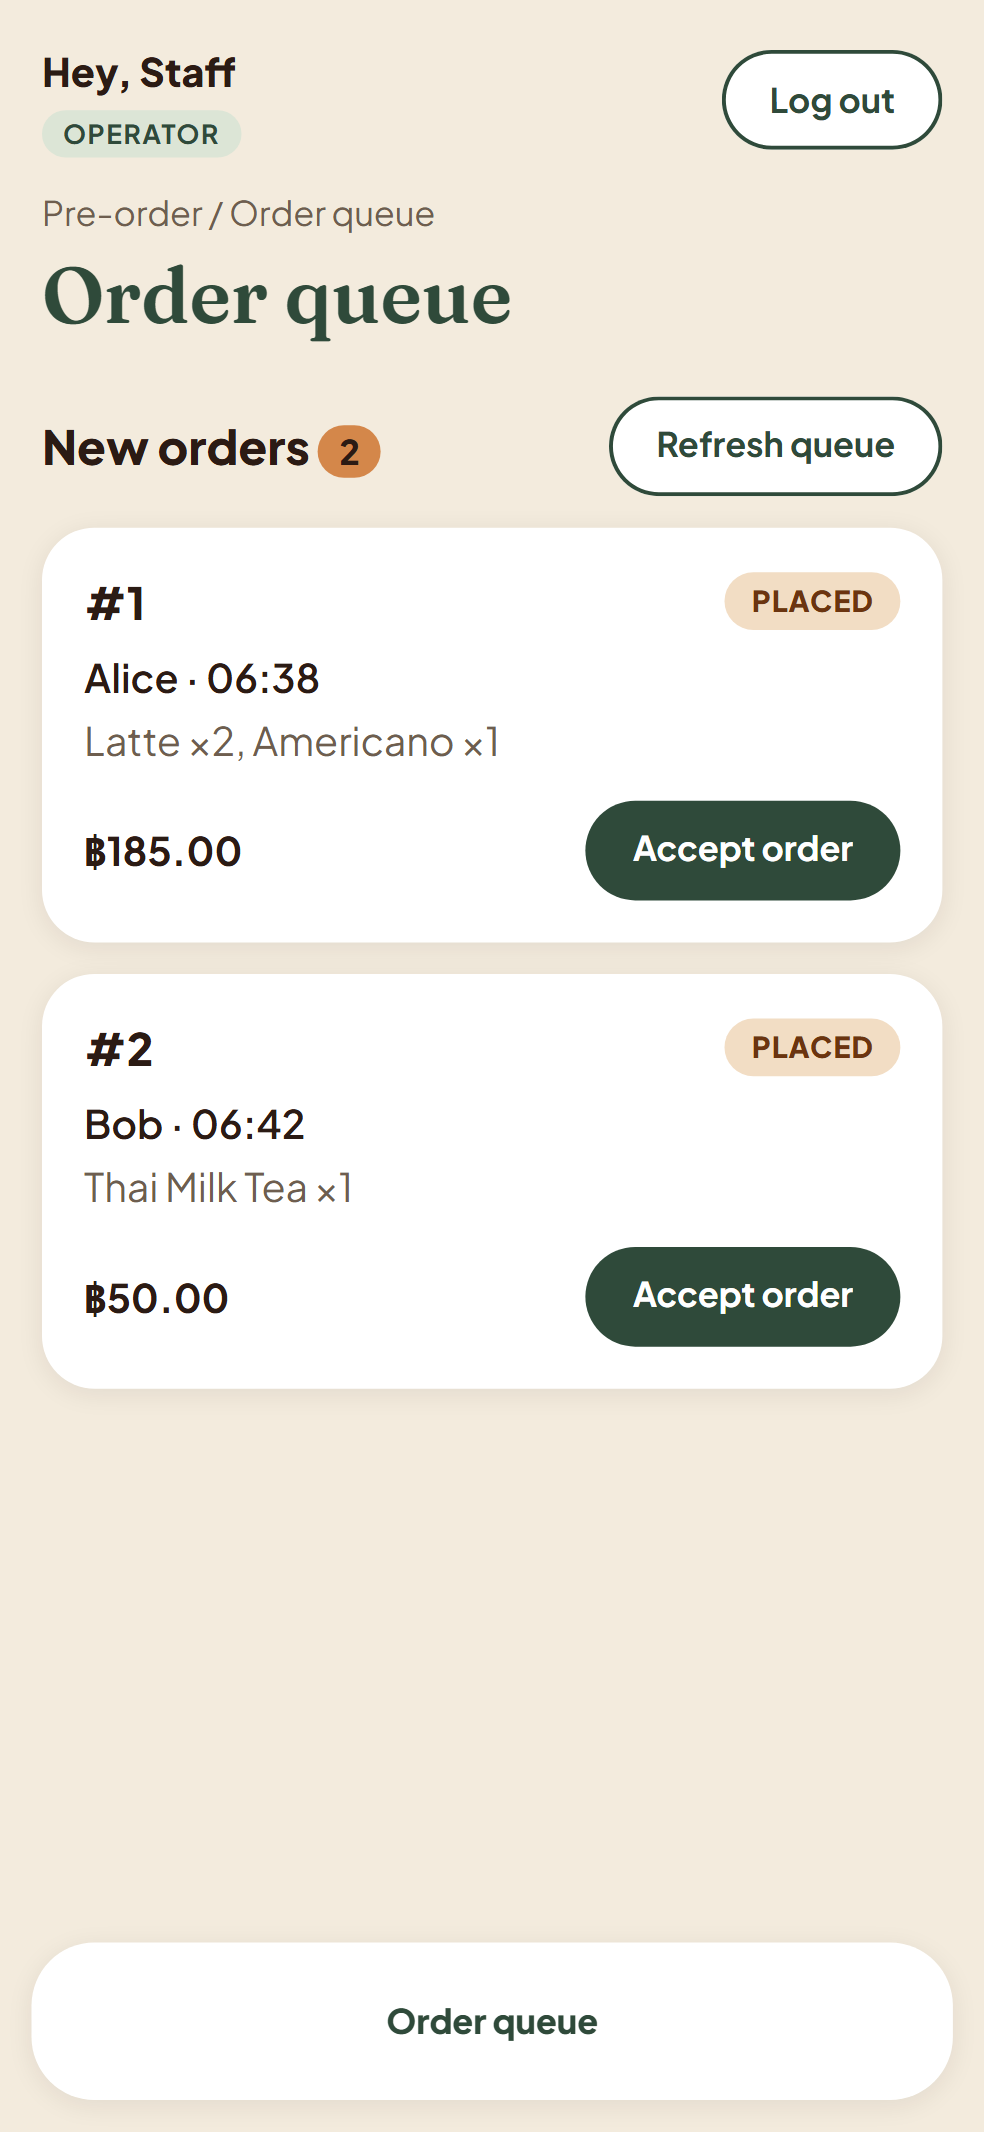
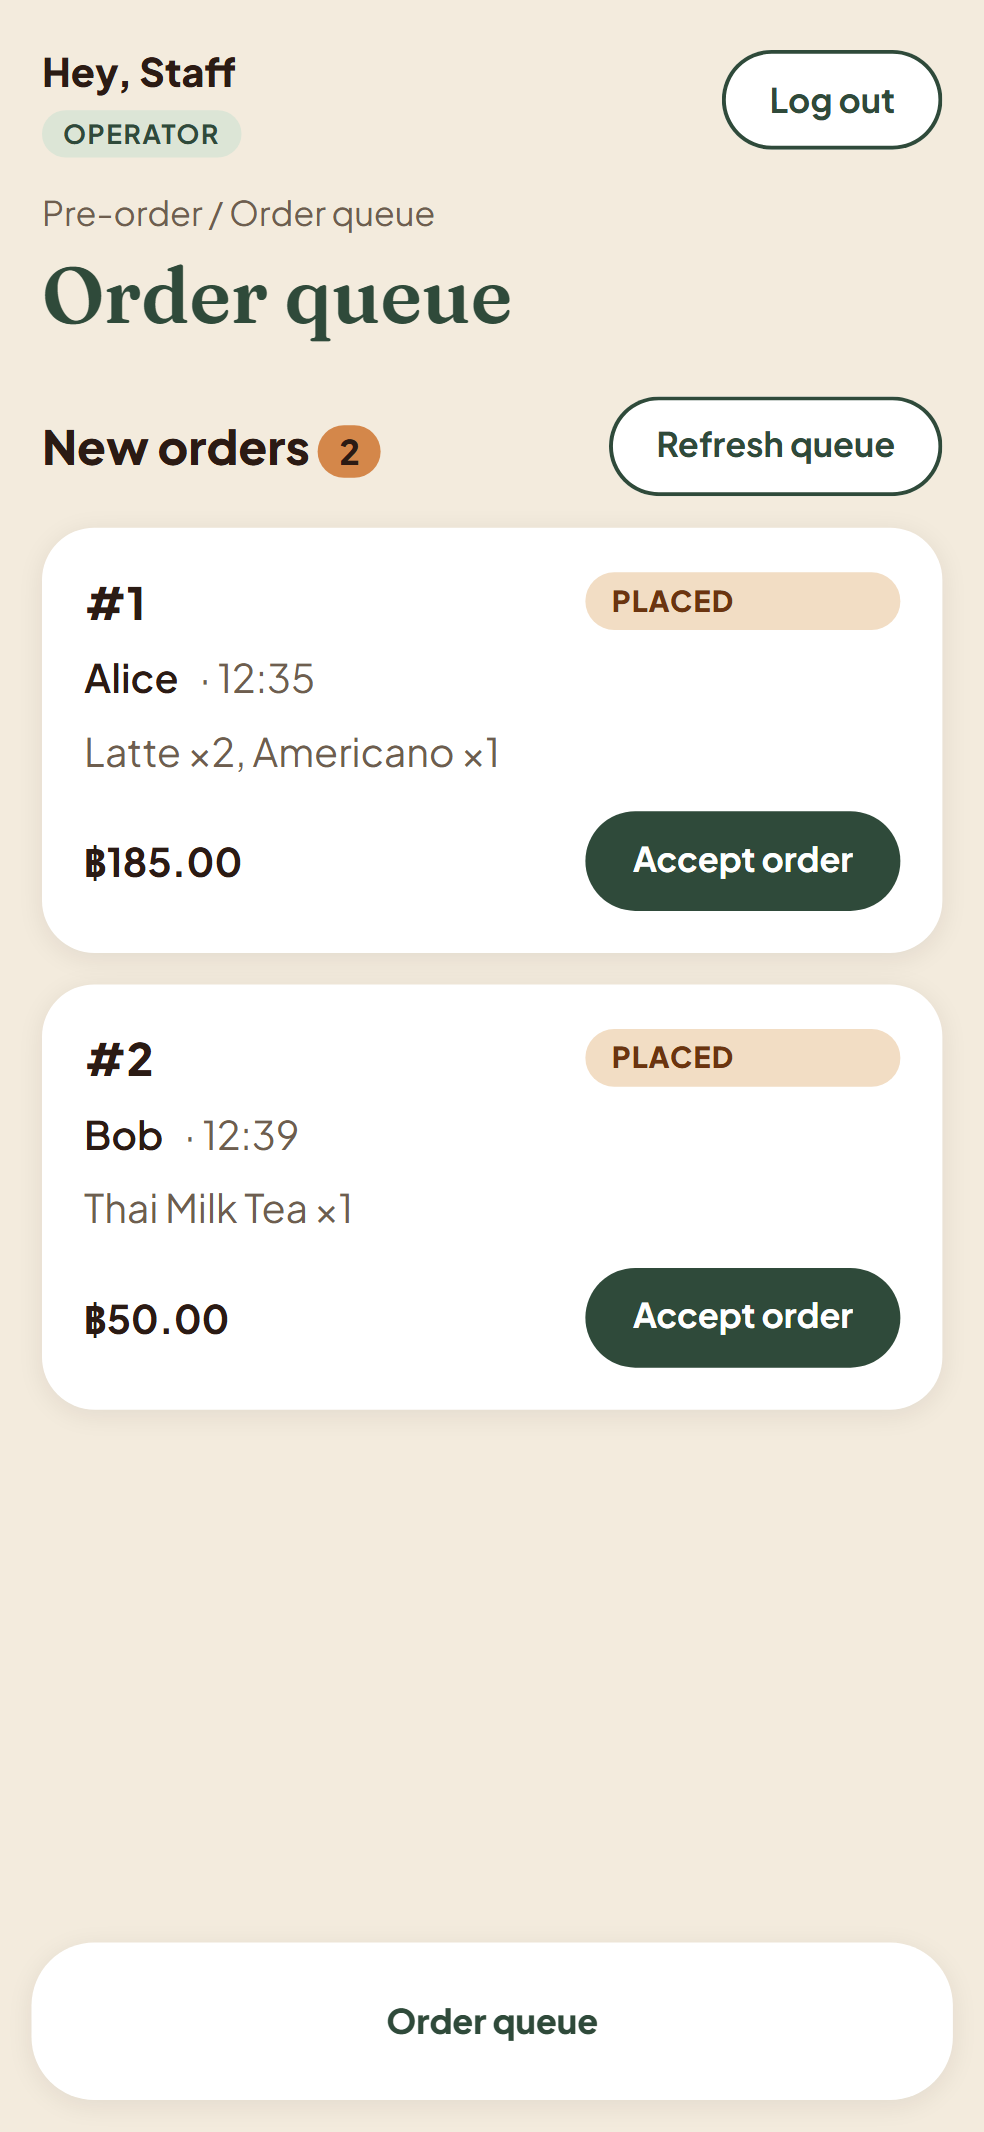
feat(#43): desktop layouts match docs/ui/design (login, orders split, queue table, menu details)

diff --git a/client/src/styles.css b/client/src/styles.css
@@ -182,3 +182,49 @@ button[disabled] { cursor: not-allowed; }
 }
 @media (min-width: 1200px) { .menu-list { grid-template-columns: repeat(3, 1fr); } }
 @media (min-width: 900px) { .phone-only { display: none; } }
+
+/* Desktop layouts from docs/ui/design/Desktop*.html (#43). Phone (< 900 px) keeps the rules above. */
+.section-head { margin: 4px 0 12px; }
+.center-text { text-align: center; }
+.no-signup { font-size: 13px; color: var(--muted); text-align: center; margin: 16px 0 0; }
+.side-sub { margin: 2px 0 0; font-size: 12px; color: var(--caramel); }
+.side-links .count { margin-left: 8px; }
+.queue-headrow, .order-headrow { display: none; }
+/* Queue card on the phone: #id + pill / customer · time / items / total + button. */
+.order-card { display: grid; grid-template-columns: auto 1fr auto; grid-template-areas: "no no pill" "who time time" "items items items" "total total action"; align-items: center; gap: 6px 8px; }
+.q-no { grid-area: no; } .q-pill { grid-area: pill; } .q-who { grid-area: who; font-weight: 600; }
+.q-time { grid-area: time; } .q-time::before { content: "· "; }
+.q-items { grid-area: items; } .q-total { grid-area: total; margin-top: 6px; } .q-action { grid-area: action; margin-top: 6px; }
+.orders-split.has-detail .split-list, .orders-split:not(.has-detail) .split-detail { display: none; }
+
+@media (min-width: 900px) {
+  /* Login: full-screen photo, dark overlay, white card in the centre. */
+  .login { max-width: none; position: relative; align-items: center; justify-content: center; padding: 110px 16px 48px; background: var(--espresso); }
+  .login::before { content: ""; position: absolute; inset: 0; background: rgba(43, 27, 20, 0.62); z-index: 1; }
+  .login-photo { position: absolute; inset: 0; height: 100%; }
+  .hero { position: absolute; top: 36px; left: 48px; right: 48px; z-index: 2; display: flex; justify-content: space-between; align-items: center; background: none; padding: 0; border-radius: 0; }
+  .hero .brand { font-size: 26px; color: var(--caramel); }
+  .hero .brand br, .hero .brand em { display: none; }
+  .hero .tag { margin: 0; font-size: 14px; color: var(--beige); }
+  .login-form { position: relative; z-index: 2; width: 420px; background: #fff; border-radius: 16px; box-shadow: 0 18px 40px rgba(20, 12, 8, 0.35); padding: 0 28px 26px; }
+  .card-head { margin: -28px -10px 18px; padding: 22px 24px; border-radius: 12px; background: var(--forest); color: #fff; text-align: center; box-shadow: 0 8px 18px rgba(47, 74, 58, 0.4); }
+  .card-head .title { font-family: "Fraunces", Georgia, serif; font-weight: 600; font-size: 28px; }
+  .card-head .muted { color: #d9e4d3; }
+  .login-form .input { border: 1px solid #dccfbd; box-shadow: none; height: 48px; border-radius: 12px; }
+  .credit { text-align: center; }
+
+  /* Queue and My orders: rows of one white table card. */
+  .queue, .order-list { grid-template-columns: 1fr; gap: 0; background: #fff; border-radius: 16px; box-shadow: var(--card-shadow); overflow: hidden; }
+  .queue-headrow, .order-card { display: grid; grid-template-columns: 70px 120px 1fr 80px 100px 140px; grid-template-areas: "no who items time total action"; align-items: center; gap: 12px; padding: 12px 18px; border-radius: 0; box-shadow: none; border-bottom: 1px solid #efe6d8; }
+  .queue-headrow, .order-headrow { font-size: 12px; font-weight: 700; color: var(--muted); background: var(--cashmere); }
+  .q-pill { display: none; }
+  .q-time::before { content: none; }
+  .q-total, .q-action { margin-top: 0; }
+  .order-headrow, .order-row { display: grid; grid-template-columns: 70px 1fr 100px 90px; gap: 12px; align-items: center; padding: 12px 18px; }
+  .order-row { border-radius: 0; box-shadow: none; border-bottom: 1px solid #efe6d8; }
+  .order-row[aria-current="true"] { background: #f6efe4; }
+  .order-row .pill { justify-self: start; }
+  .orders-split { display: grid; grid-template-columns: minmax(340px, 1fr) minmax(380px, 1.2fr); gap: 20px; align-items: start; }
+  .orders-split .split-list, .orders-split .split-detail { display: block !important; }
+  .split-detail .back { display: none; }
+}

diff --git a/client/src/pages/QueuePage.tsx b/client/src/pages/QueuePage.tsx
@@ -109,23 +109,27 @@ export function QueuePage() {
           <p className="muted">New orders appear here when you refresh.</p>
         </div>
       ) : (
+        // Phone: one card per order. Desktop: the same items laid out as table rows (styles.css).
         <ul className="queue">
+          <li className="queue-headrow" aria-hidden="true">
+            <span>Order</span>
+            <span>Customer</span>
+            <span>Items</span>
+            <span>Placed</span>
+            <span>Total</span>
+            <span>Action</span>
+          </li>
           {orders.map((o) => (
             <li className="card order-card" key={o.id} data-testid={`order-${o.id}`}>
-              <div className="order-top">
-                <span className="order-no">#{o.id}</span>
-                <span className="pill placed">PLACED</span>
-              </div>
-              <p className="order-who">
-                {o.customer.name} · {formatPlacedTime(o.createdAt)}
-              </p>
-              <p className="muted">{items(o)}</p>
-              <div className="order-bottom">
-                <strong>{baht(o.total)}</strong>
-                <button className="btn small" disabled={busyId === o.id} onClick={() => accept(o.id)}>
-                  {busyId === o.id ? "Accepting…" : "Accept order"}
-                </button>
-              </div>
+              <span className="q-no order-no">#{o.id}</span>
+              <span className="q-pill pill placed">PLACED</span>
+              <span className="q-who">{o.customer.name}</span>
+              <span className="q-time muted">{formatPlacedTime(o.createdAt)}</span>
+              <span className="q-items muted">{items(o)}</span>
+              <strong className="q-total">{baht(o.total)}</strong>
+              <button className="q-action btn small" disabled={busyId === o.id} onClick={() => accept(o.id)}>
+                {busyId === o.id ? "Accepting…" : "Accept order"}
+              </button>
             </li>
           ))}
         </ul>

diff --git a/client/src/pages/OrdersPage.tsx b/client/src/pages/OrdersPage.tsx
@@ -19,8 +19,30 @@ function Skeletons() {
   );
 }
 
+// /orders and /orders/:id. Desktop: list and detail side by side (DesktopOrders.html).
+// Phone: the list, or the detail when an order is open.
+export function OrdersSplit() {
+  const { id } = useParams();
+  return (
+    <div className={"orders-split" + (id ? " has-detail" : "")}>
+      <section className="split-list">
+        <OrdersPage selectedId={id} />
+      </section>
+      <section className="split-detail">
+        {id ? (
+          <OrderDetailPage key={id} />
+        ) : (
+          <div className="empty">
+            <p className="muted">Select an order to see its details.</p>
+          </div>
+        )}
+      </section>
+    </div>
+  );
+}
+
 // S3 My orders (F-03): own orders, newest first. Refresh by hand (no polling in Sprint 1).
-export function OrdersPage() {
+export function OrdersPage({ selectedId }: { selectedId?: string }) {
   const [orders, setOrders] = useState<OrderSummary[] | "loading" | "error">("loading");
   const navigate = useNavigate();
   const load = useCallback(() => {
@@ -56,9 +78,19 @@ export function OrdersPage() {
         Refresh list
       </button>
       <ul className="order-list">
+        <li className="order-headrow" aria-hidden="true">
+          <span>Order</span>
+          <span>Placed</span>
+          <span>Status</span>
+          <span>Total</span>
+        </li>
         {orders.map((o) => (
           <li key={o.id}>
-            <button className="order-row" onClick={() => navigate(`/orders/${o.id}`)}>
+            <button
+              className="order-row"
+              aria-current={String(o.id) === selectedId ? "true" : undefined}
+              onClick={() => navigate(`/orders/${o.id}`)}
+            >
               <span className="order-no">#{o.id}</span>
               <span className="muted">
                 {formatPlacedTime(o.createdAt)} · {o.itemCount} {o.itemCount === 1 ? "item" : "items"}

diff --git a/client/src/pages/MenuPage.tsx b/client/src/pages/MenuPage.tsx
@@ -128,7 +128,12 @@ export function MenuPage() {
   const cartPanel = (
     <section className="cart" aria-label="Cart">
       <div className="cart-head">
-        <h2 className="title">Your cart</h2>
+        <div>
+          <h2 className="title">Your cart</h2>
+          <p className="muted">
+            {count} {count === 1 ? "item" : "items"} · pickup ASAP
+          </p>
+        </div>
         <button className="msg-close static" aria-label="Close cart" onClick={() => navigate("/menu")}>
           ×
         </button>
@@ -214,6 +219,7 @@ export function MenuPage() {
       <button className="btn" onClick={placeOrder} disabled={submitting || cart.lines.length === 0}>
         {submitting ? "Placing order…" : "Place order →"}
       </button>
+      <p className="hint center-text">The final total is calculated by the café.</p>
     </section>
   );
 
@@ -224,6 +230,12 @@ export function MenuPage() {
           <p className="banner-title">Order ahead. Skip the line.</p>
           <p className="banner-sub">Coffee and snacks from ฿35. Pickup ASAP at the counter.</p>
         </section>
+        {load.state === "ok" && load.items.length > 0 && (
+          <div className="section-head">
+            <h2 className="section-title">Today's menu</h2>
+            <p className="muted">{load.items.length} items · sold-out items can't be added</p>
+          </div>
+        )}
         {full && <p className="hint">{fullMsg}</p>}
         <MenuList
           load={load}

diff --git a/client/src/App.tsx b/client/src/App.tsx
@@ -3,7 +3,7 @@ import { homeFor, useAuth } from "./auth";
 import { RequireRole } from "./Layout";
 import { LoginPage } from "./pages/LoginPage";
 import { MenuPage } from "./pages/MenuPage";
-import { OrderDetailPage, OrdersPage } from "./pages/OrdersPage";
+import { OrdersSplit } from "./pages/OrdersPage";
 import { CartProvider } from "./cart";
 import { QueuePage } from "./pages/QueuePage";
 
@@ -33,8 +33,8 @@ export function App() {
       <Route path="/" element={<Home />} />
       <Route path="/login" element={<LoginPage />} />
       <Route path="/menu" element={<RequireRole role="CUSTOMER" title="Menu"><MenuPage /></RequireRole>} />
-      <Route path="/orders" element={<RequireRole role="CUSTOMER" title="My orders"><OrdersPage /></RequireRole>} />
-      <Route path="/orders/:id" element={<RequireRole role="CUSTOMER" title="Order"><OrderDetailPage /></RequireRole>} />
+      <Route path="/orders" element={<RequireRole role="CUSTOMER" title="My orders"><OrdersSplit /></RequireRole>} />
+      <Route path="/orders/:id" element={<RequireRole role="CUSTOMER" title="My orders"><OrdersSplit /></RequireRole>} />
       <Route path="/operator/orders" element={<RequireRole role="OPERATOR" title="Order queue"><QueuePage /></RequireRole>} />
       <Route path="*" element={<NotFound />} />
     </Routes>

diff --git a/client/src/pages/LoginPage.tsx b/client/src/pages/LoginPage.tsx
@@ -49,8 +49,10 @@ export function LoginPage() {
         <p className="tag">Skip the line. Pick up when it's ready.</p>
       </div>
       <form className="login-form" onSubmit={submit} noValidate>
-        <h1 className="title">Sign in</h1>
-        <p className="muted">Use your café account.</p>
+        <div className="card-head">
+          <h1 className="title">Sign in</h1>
+          <p className="muted">Use your café account.</p>
+        </div>
         {notice && !error && <div className="msg info">{notice}</div>}
         {error && (
           <div className="msg error" role="alert">
@@ -89,6 +91,7 @@ export function LoginPage() {
         <button className="btn" type="submit" disabled={busy}>
           {busy ? "Logging in…" : "Log in"}
         </button>
+        <p className="no-signup">Accounts are created by the café. No sign-up.</p>
         <p className="credit">Photos: Shixart1985 (CC BY 2.0), Takeaway (CC BY-SA 3.0), via Wikimedia Commons.</p>
       </form>
     </div>

diff --git a/client/src/Layout.tsx b/client/src/Layout.tsx
@@ -49,10 +49,12 @@ export function RequireRole({ role, title, children }: { role: Role; title: stri
     <div className="shell">
       <aside className="side">
         <p className="brand small">Campus Café</p>
+        <p className="side-sub">{user.role === "OPERATOR" ? "Staff" : "Pre-order"}</p>
         <nav className="side-links">
           {links.map((l) => (
             <NavLink key={l.to} to={l.to} end onClick={clearNotice}>
               {l.label}
+              {l.to === "/menu" && cartCount > 0 && <span className="count">{cartCount}</span>}
             </NavLink>
           ))}
         </nav>

diff --git a/docs/sprints/sprint-1/F-04-accept.md b/docs/sprints/sprint-1/F-04-accept.md
@@ -56,7 +56,7 @@ One table in `server/src/orders/transitions.ts`, used by every status change now
 
 Per [`../../ui/ui-spec.md`](../../ui/ui-spec.md) S5.
 - Heading "New orders" with the count; **Refresh queue** button (no auto-polling).
-- Phone: one card per order — `#id`, customer name, placed time, items summary ("Latte ×2, Croissant ×1"), total `฿xx.xx`, **Accept order**. Desktop: four number cards (Waiting orders, Oldest waiting in minutes, Items to make, Queue value — worked out on the client from the list) and the orders as cards in a 2-column grid. Sprint 1: desktop shows cards; the table in the design is known UI debt.
+- Phone: one card per order — `#id`, customer name, placed time, items summary ("Latte ×2, Croissant ×1"), total `฿xx.xx`, **Accept order**. Desktop: four number cards (Waiting orders, Oldest waiting in minutes, Items to make, Queue value — worked out on the client from the list) and the orders as a table (Order, Customer, Items, Placed, Total, Action), as in `DesktopQueue.html`.
 - States: loading placeholders; empty "No new orders. New orders appear here when you refresh."; load error "Couldn't load orders." + **Reload queue**; accepting: only that button shows "Accepting…" (disabled); success "Order #N accepted." and the card leaves; 409 "Order #N: Already accepted by another staff member." then reload; 404 "Order #N no longer exists." then reload.
 
 ## 4. API
@@ -123,3 +123,4 @@ See [`definition-of-done.md`](definition-of-done.md). F-04 specific: TEST-F04-07
 |---|---|---|---|
 | 6 Nov 2026 | 1 | First contract; adds `accepted_at` | Before implementation (Issue #5); accepted time requested for the order detail timeline (chat with ninja, 6 Nov) |
 | 6 Nov 2026 | 1.1 | AC-F04-08 + TEST-F04-14: id above 2147483647 → 400, not 500; TEST-F04-11/13 preconditions say orders are inserted in the E2E database; UI §3: desktop cards, table is known UI debt | Recheck (#37, agreed in chat #71/#72): bug found by ninja; contract made to match the tests and code |
+| 6 Nov 2026 | 1.2 | UI §3: desktop queue is a table, as in the design (no longer UI debt) | #43: desktop layouts made to match docs/ui/design |

diff --git a/docs/evidence/part-f.md b/docs/evidence/part-f.md
@@ -304,5 +304,4 @@ With each student's permission, each AI session also opened pull requests and **
 - **Process exceptions (setup, documents only):** PRs #13 and #15 were merged by their author without review, and four commits were pushed directly by the repo owner (`5f85976`, `810c7e3`, `2797462`, `d92baf0`). Every PR from #16 on was reviewed and merged by the other student. Details: `history.md`.
 - Branch `feature/F-03-e2e` is linked to Issue #10 through PR #27; the branch link under "Development" is added on the website.
 - F-03 reads menu items without a row lock inside the order transaction. In Sprint 1 nothing changes availability while the app runs, so no race exists yet; revisit with F-05 (menu management).
-- UI debt: desktop operator queue uses cards instead of a table; desktop My orders and Order detail are two pages instead of side by side.
 - Not done yet: release to `main` and tag `v0.1.0-sprint1` (the students' decision); Docker image, CI/CD and GCP deployment (Lab 5).
